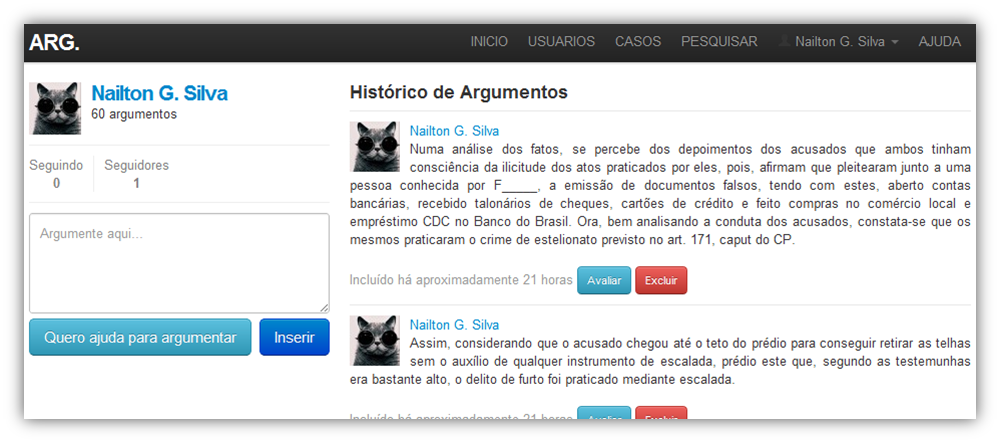
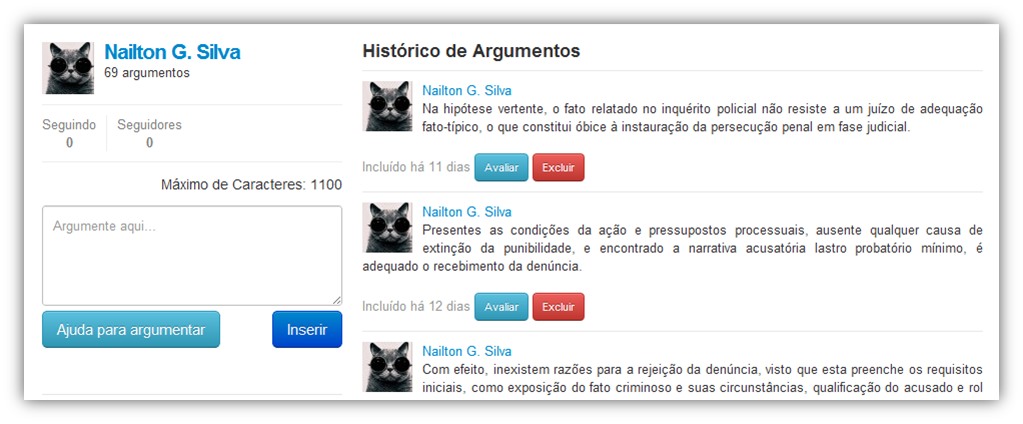
new images, show argument public and twitter button

diff --git a/app/helpers/application_helper.rb b/app/helpers/application_helper.rb
@@ -2,7 +2,7 @@ module ApplicationHelper
 
   # Returns the full title on a per-page basis.       # Documentation comment
   def full_title(page_title)                          # Method definition
-    base_title = "Arg."  # Variable assignment
+    base_title = "ARG"  # Variable assignment
     if page_title.empty?                              # Boolean test
       base_title                                      # Implicit return
     else

diff --git a/app/controllers/arguments_controller.rb b/app/controllers/arguments_controller.rb
@@ -1,5 +1,5 @@
 class ArgumentsController < ApplicationController
-  before_filter :signed_in_user, only: [:create, :destroy, :show]
+  before_filter :signed_in_user, only: [:create, :destroy]
   before_filter :correct_user,   only: :destroy
   def rate
     @argument = Argument.find(params[:id])
